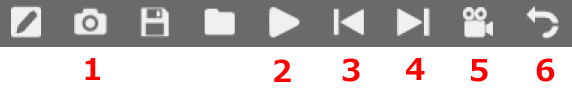
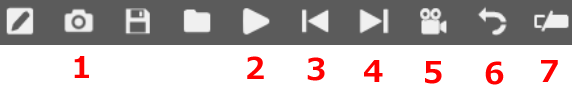
upd9.54

diff --git a/kr.html b/kr.html
@@ -190,17 +190,16 @@
 
       <h2 id="c2">펜 옵션 박스</h2><hr>
       <img src="img/penlist.png"><p></p>
-      펜 프리셋, 손떨림 보정, 픽셀 라인 옵션이 있습니다. 창의 빈 부분을 클릭+드래그 하면 박스를 이동 시킬 수 있습니다.<p></p>
+      펜 프리셋, 손떨림 보정, 샤프 라인 옵션이 있습니다. 창의 빈 부분을 클릭+드래그 하면 박스를 이동 시킬 수 있습니다.<p></p>
       [1]: 펜 모양<br>
-      [2]: 픽셀 라인 켜기/끄기, 켜면 날카로운 선의 느낌이 납니다.<br>
-      [3]: 색 채우기 켜기/끄기, 선 안쪽의 색을 채우면서 그립니다. 단축키는 컨트톨키 입니다<br>
-      [4]: 손떨림 보정<br>
-      [5]: 펜 크기<br>
-      [6]: 펜 투명도<br>
-      [7]: 펜 색깔 선택 창<br>
-      [8]: 배경색 선택 창<br>
-      [9]: drawr 컬러 프리셋, 컨트롤 키를 누른 상태로 클릭을 하면 배경색이 바뀝니다.<br>
-      [10]: 컬러 히스토리, 컨트롤 키를 누른 상태로 클릭을 하면 배경색이 바뀝니다. <br>
+      [2]: 샤프 라인 켜기/끄기, 켜면 날카로운 선의 느낌이 납니다.<br>
+      [3]: 손떨림 보정<br>
+      [4]: 펜 크기<br>
+      [5]: 펜 투명도<br>
+      [6]: 펜 색깔 선택 창<br>
+      [7]: 배경색 선택 창<br>
+      [8]: drawr 컬러 프리셋, 컨트롤 키를 누른 상태로 클릭을 하면 배경색이 바뀝니다.<br>
+      [9]: 컬러 히스토리, 컨트롤 키를 누른 상태로 클릭을 하면 배경색이 바뀝니다. <br>
       **스포이드로 선택한 색깔은 히스토리에 기록되지 않습니다. 색깔을 등록해 쓰고 싶다면 마우스 오른쪽 클릭하세요.<br>
 
       * 지우개와 펜(직선)의 크기,투명도 데이터는 따로 관리합니다.<p></p>
@@ -307,15 +306,23 @@
 
       [6] 수퍼-되돌리기<br>
       그리기 모드에서는 되돌리기(undo)가 7번까지 되지만, 리플레이 모드에서는 모든 과정이 담겨있기 때문에<br>
-      특정 지점부터 되돌리기 한 후에 다시 그리기가 가능합니다. 실행한 후에는 데이터가 지워지므로 주의하세요.<br>
+      특정 지점부터 되돌리기 한 후에 다시 그리기가 가능합니다. 실행한 후에는 시간 탐색창의 빨간색 부분의 데이터가 지워집니다.<br>
       원하는 프레임으로 이동 후, 이 버튼을 2번 누르세요.<br>
       이 버튼은 그리기 모드에서 Undo가 가능한 구간에서는 비활성화 됩니다.<br>
-      프레임 탐색 막대에 회색으로 된 구분 선이 있는데, 그 선보다 작은 프레임이어야만 이 버튼이 활성화 됩니다.<br>
-      <img src="img/superundo.png"></img><p></p>
+      프레임 탐색 막대에 회색으로 된 구분 선이 있는데, 그 선보다 작은 프레임이어야만 이 버튼이 활성화 됩니다.<p></p>
+      
+      <img src="img/superundo.png"></img><br>
+
+      [7] 데이터 앞부분 자르기<br>
+      재까지 재생한 부분의 앞부분을 지웁니다.<br>
+      이 기능과 수퍼-되돌리기 기능을 사용하면 원하는 부분의 데이터만 남길 수 있습니다.<br>
+      버튼 활성화 조건은 수퍼-되돌리기와 같습니다.<p></p>
+
 
 
       <img src="img/replaymenu.png"></img><p></p>
       툴 사용방법은 위에서 설명한 툴 선택 방법과 같습니다.<br>
+      (마우스 오른쪽 누른 후 원하는 아이콘에 커서를 위치한 후 떼기)<p></p>
 
       [1] 캔버스 확대 축소 툴<p></p>
 

diff --git a/jp.html b/jp.html
@@ -202,17 +202,16 @@
 
       <h2 id="c2">ペンオプション</h2><hr>
       <img src="img/penlist.png"><p></p>
-      ぺんのプリセット, 手振れ補正, PixelLineがあります。この窓の空いた部分にClick+Dragすると、窓を動かすことができます。<p></p>
+      ぺんのプリセット, 手振れ補正, SharpLineがあります。この窓の空いた部分にClick+Dragすると、窓を動かすことができます。<p></p>
       [1]: ペンの形<br>
-      [2]: ピクセル線 ON/OFF, ONになると線の感じがするどくなります。<br>
-      [3]: 塗りつぶし ON/FF, 線の中に色を塗るながら描きます。ショートカットキーは Ctrlです。<br>
-      [4]: 手振れ補正<br>
-      [5]: ペンサイズ<br>
-      [6]: ペン透明度<br>
-      [7]: ペン色選択<br>
-      [8]: 背景色選択<br>
-      [9]: Drawrのカラープリセット、Ctrlキーを押したままクリックすると背景色が変わります。<br>
-      [10]: カラーヒストリー, Ctrlキーを押したままクリックすると背景色が変わります。<br>
+      [2]: Sharp line ON/OFF, ONになると線の感じがするどくなります。<br>
+      [3]: 手振れ補正<br>
+      [4]: ペンサイズ<br>
+      [5]: ペン透明度<br>
+      [6]: ペン色選択<br>
+      [7]: 背景色選択<br>
+      [8]: Drawrのカラープリセット、Ctrlキーを押したままクリックすると背景色が変わります。<br>
+      [9]: カラーヒストリー, Ctrlキーを押したままクリックすると背景色が変わります。<br>
       **スポイトで選択した色はこのヒストリーに記録されません。新しい色を記録したい時はマウス右クリックをしてだくさい。<br>
 
       * 消しゴムとペン（＋直線）データは別です。<p></p>
@@ -322,6 +321,11 @@
       このボタンは普通Undoができる区間にはOFFになります。<br>
       フレーム探索バーの区分線より少ないフレームを選択するべきです。<br>
       <img src="img/superundo.png"></img><p></p>
+
+      [7] レプレイデータの前の部分をカット
+      現在まで再生した部分の前を消します。<br>
+      この機能とSuper-undo機能を使えば、望む部分だけデータを残すことができます。<br>
+      ボタン活性化条件はSuper-undoと同じです。<p></p>
 
 
       <img src="img/replaymenu.png"></img><p></p>

diff --git a/en.html b/en.html
@@ -205,15 +205,14 @@
       <h2 id="c2">Pen options</h2><hr>
       <img src="img/penlist.png"><p></p>
       [1]: Pen shape<br>
-      [2]: Pixel line ON/OFF, If it is turned ON, lines becomes little sharper.<br>
-      [3]: Flood Fill ON/FF, draw while fill color the inside of the line. shortcut key is Ctrl.<br>
-      [4]: Pen smoothing<br>
-      [5]: Pen size<br>
-      [6]: Pen opacity<br>
-      [7]: Color picker<br>
-      [8]: Change Canvas background color<br>
-      [9]: 'Drawr' color presets, Ctrl+Click to change canvas background color.<br>
-      [10]: Color history, Ctrl+Click to change canvas background color.<br>
+      [2]: Sharp line ON/OFF, If it is turned ON, lines becomes little sharper.<br>
+      [3]: Pen smoothing<br>
+      [4]: Pen size<br>
+      [5]: Pen opacity<br>
+      [6]: Color picker<br>
+      [7]: Change Canvas background color<br>
+      [8]: 'Drawr' color presets, Ctrl+Click to change canvas background color.<br>
+      [9]: Color history, Ctrl+Click to change canvas background color.<br>
       ** Colors with the eyedropper will not be recorded in color history. If you want to record a new color, right-click on history box.<br>
 
       * Eraser and pen (line) size and transparency data are managed separately.<p></p>
@@ -317,6 +316,11 @@
       This button is disabled in the section where Undo is possible in the drawing mode.<br>
       There is a gray dividing line in the frame navigation bar, and it must be a frame smaller than that line to activate this button.<br>
       <img src="img/superundo.png"></img><p></p>
+
+      [7] Delete the front part of replay data<br>
+      Delete the part that has been played up to now. <br>
+      With this function and the Super-undo function, you can get only the desired part of the data. <br>
+      Button activation conditions are the same as Super-undo. <p> </p>
 
 
       <img src="img/replaymenu.png"></img><p></p>

diff --git a/index.html b/index.html
@@ -105,7 +105,7 @@
           *正式な証明書を使用していないので、SmartScreenやセキュリティの脅威警告が出てきますが、ウイルスはありません。<br>
           *it's not using a formal certificate, so you get SmartScreen and security threat warnings, but no viruses.<p></p>
         </p>
-        <p><a href="https://github.com/guljam/2020FlashPaint/releases/download/setup/fofoPaint_Setup.zip"><span>Windows (ver 9.53)</span></a> <span>/ Mac (need tester)</span></p>
+        <p><a href="https://github.com/guljam/2020FlashPaint/releases/download/setup/fofoPaint_Setup.zip"><span>Windows (ver 9.54)</span></a> <span>/ Mac (need tester)</span></p>
         <p><a href="releasenote.txt">release note</a></p>
         <img src="img/appscreenshot.png" width=500>
         <p></p>

diff --git a/style.css b/style.css
@@ -33,7 +33,7 @@ html
   position: relative;
   width:100%;
   height:100%;
-  font-size:1.2em;
+  font-size:1em;
   line-height: 200%;
 }
 
